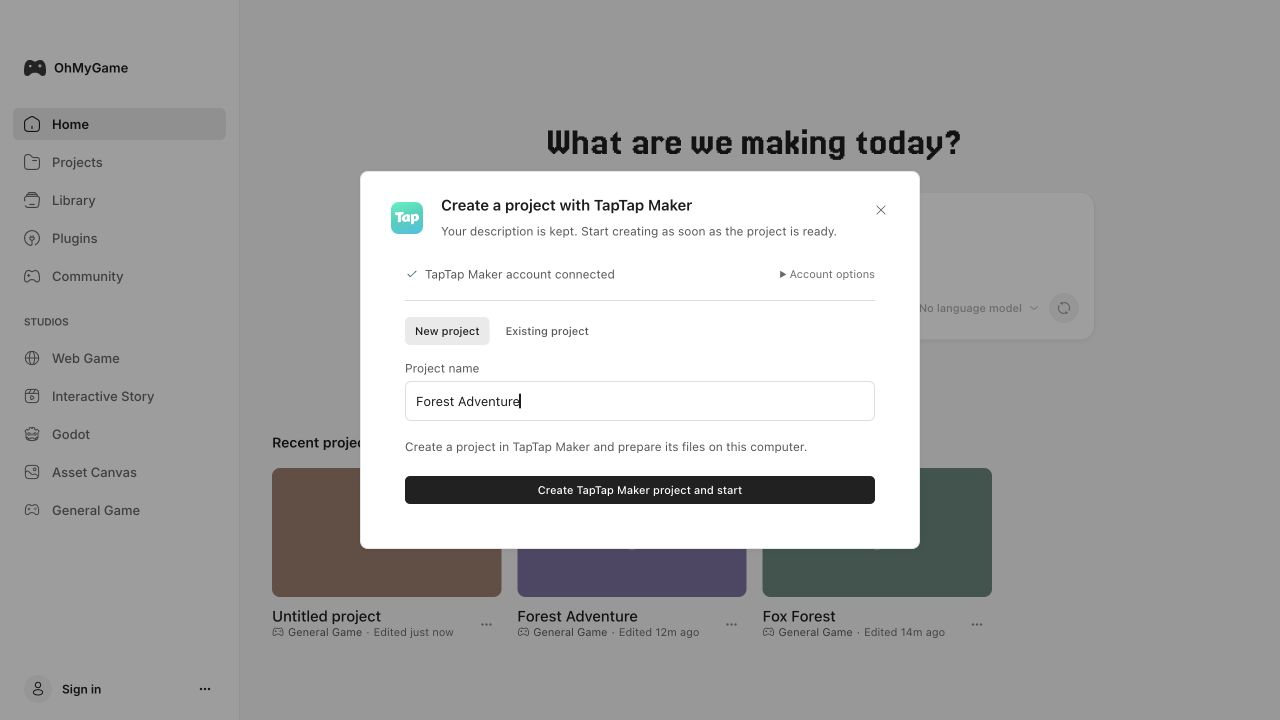
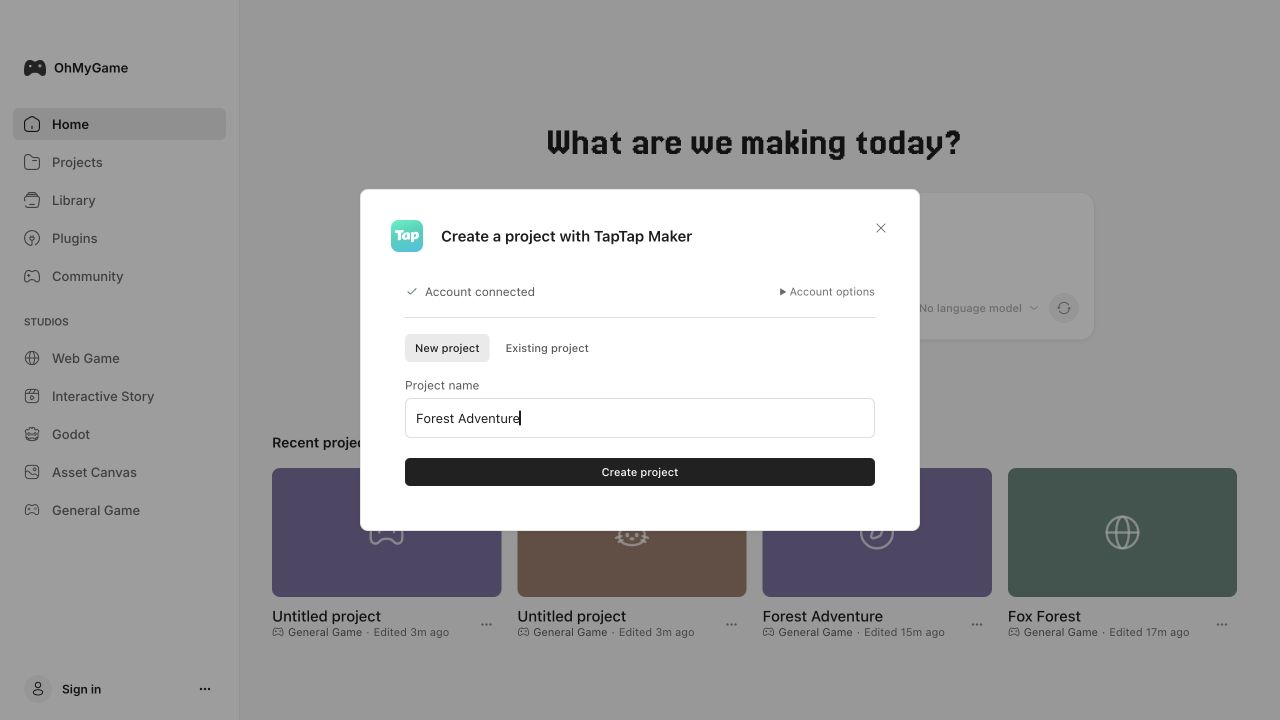
style(plugins): simplify project creation copy

diff --git a/src/renderer/plugin-integration.tsx b/src/renderer/plugin-integration.tsx
@@ -19,7 +19,7 @@ import { Check, LoaderCircle, RefreshCw, X } from "./icons.js";
 import { t } from "./i18n.js";
 import { PluginGlyph } from "./plugin-icons.js";
 
-type ProjectCreation = { name: string; canCreate: boolean; pluginName: string };
+type ProjectCreation = { name: string; canCreate: boolean };
 type CreationOptions = { canCreate: boolean; embedded?: boolean };
 
 function useIntegration(
@@ -280,11 +280,7 @@ function IntegrationContents({
             )}
             {busy && !(creation && projectOperation)
               ? (state?.message ?? t("integration.working"))
-              : creation
-                ? t("integration.connectedWith", {
-                    plugin: creation.pluginName,
-                  })
-                : t("integration.connected")}
+              : t("integration.connected")}
           </p>
         ) : null}
         {creation && ready ? (
@@ -342,11 +338,6 @@ function IntegrationContents({
                   onChange={(event) => setName(event.target.value)}
                 />
               </label>
-              <p>
-                {t("integration.newProjectHint", {
-                  plugin: creation.pluginName,
-                })}
-              </p>
               <button
                 className="plugin-detail-primary"
                 type="button"
@@ -360,15 +351,12 @@ function IntegrationContents({
                   );
                 }}
               >
-                {t(
-                  busy ? "integration.working" : "integration.createAndConnect",
-                  { plugin: creation.pluginName },
-                )}
+                {t(busy ? "integration.working" : "integration.createAndConnect")}
               </button>
             </>
           ) : (
             <>
-              <p>{t("integration.chooseProject")}</p>
+              {!creation ? <p>{t("integration.chooseProject")}</p> : null}
               <button
                 className="plugin-detail-secondary"
                 type="button"
@@ -526,7 +514,7 @@ export function usePluginIntegrationGate(
       candidate={!dialog.project.integration}
       creation={
         dialog.creation
-          ? { ...dialog.creation, name: dialog.project.name, pluginName }
+          ? { ...dialog.creation, name: dialog.project.name }
           : undefined
       }
       onReady={() => close(true)}
@@ -541,10 +529,7 @@ export function usePluginIntegrationGate(
               <PluginGlyph plugin={dialog.plugin} size={32} />
             </span>
           ) : null}
-          <div>
-            <h2>{t("integration.createTitle", { plugin: pluginName })}</h2>
-            <p>{t("integration.creationHint")}</p>
-          </div>
+          <h2>{t("integration.createTitle", { plugin: pluginName })}</h2>
         </div>
         <button
           className="plugin-detail-secondary plugin-integration-refresh"

diff --git a/test/plugin-integration-ui.test.tsx b/test/plugin-integration-ui.test.tsx
@@ -163,10 +163,10 @@ describe("plugin connection UI", () => {
     );
     expect(container.querySelector("select")).toBeNull();
     expect(container.querySelector("details")?.open).toBe(false);
-    expect(container.textContent).toContain("TapTap Maker account connected");
+    expect(container.textContent).toContain("Account connected");
     expect(opened).not.toHaveBeenCalled();
     await fillName("Pixel garden");
-    await click("Create TapTap Maker project and start");
+    await click("Create project");
     expect(actions).toEqual([{ action: "create" }]);
     expect(opened).toHaveBeenCalledWith(
       expect.objectContaining({ name: "Pixel garden" }),
@@ -256,7 +256,7 @@ describe("plugin connection UI", () => {
         .querySelector<HTMLButtonElement>('button[type="submit"]')!
         .click(),
     );
-    await click("Create TapTap Maker project and start");
+    await click("Create project");
     expect(opened).toHaveBeenCalledOnce();
     expect(opened.mock.calls[0]?.[2]).toContain("Make a forest adventure");
   });
@@ -317,7 +317,7 @@ describe("plugin connection UI", () => {
     expect(container.querySelectorAll('[role="dialog"]')).toHaveLength(1);
     expect(container.querySelectorAll('[role="dialog"] h2')).toHaveLength(1);
     expect(opened).not.toHaveBeenCalled();
-    await click("Create TapTap Maker project and start");
+    await click("Create project");
     expect(opened).toHaveBeenCalledOnce();
     expect(create).toHaveBeenCalledOnce();
     expect(projectRequests.some((request) => request.method === "PATCH")).toBe(
@@ -403,14 +403,14 @@ describe("plugin connection UI", () => {
     await act(async () => root.render(<Creator />));
     await click("Create game");
     await fillName("Fox forest");
-    await click("Create TapTap Maker project and start");
+    await click("Create project");
     expect(container.querySelector("input")?.value).toBe("Fox forest");
     expect(container.querySelector('[role="alert"]')?.textContent).toContain(
       "resume",
     );
     expect(opened).not.toHaveBeenCalled();
     fail = false;
-    await click("Create TapTap Maker project and start");
+    await click("Create project");
     expect(opened).toHaveBeenCalledOnce();
     expect(
       projectRequests.every((request) =>
@@ -497,7 +497,7 @@ describe("plugin connection UI", () => {
     await act(async () => root.render(<Creator />));
     await click("Create game");
     await fillName("Pixel garden");
-    await click("Create TapTap Maker project and start");
+    await click("Create project");
     expect(saveName).toBeDefined();
     expect(
       container.querySelector<HTMLButtonElement>(

diff --git a/src/renderer/styles.css b/src/renderer/styles.css
@@ -16691,14 +16691,13 @@ button {
 .plugin-project-choices .plugin-detail-secondary[aria-pressed="true"] { background: var(--control-selected); color: var(--text); }
 .plugin-project-creation { display: grid; width: min(560px, 100%); gap: 20px; margin: 0 auto; padding: 24px; border: 1px solid var(--border); border-radius: var(--radius-panel); background: var(--surface-raised); text-align: left; }
 .plugin-project-creation > header { display: flex; align-items: start; justify-content: space-between; gap: 12px; }
-.plugin-project-creation > header h2 { margin: 0 0 8px; color: var(--text); font-size: 15px; font-weight: 600; }
-.plugin-project-creation > header p { margin: 0; color: var(--text-secondary); font-size: 12px; line-height: 1.6; }
+.plugin-project-creation > header h2 { margin: 0; color: var(--text); font-size: 15px; font-weight: 600; }
 .plugin-project-creation .plugin-integration-panel { margin: 0; }
 .plugin-project-dialog { width: min(560px, 100%); }
 .plugin-project-dialog .plugin-project-creation { width: 100%; margin: 0; border: 0; }
 .plugin-project-dialog .plugin-integration-panel { padding: 0; }
-.plugin-project-identity { display: flex; min-width: 0; align-items: start; gap: 12px; }
-.plugin-project-identity > div { min-width: 0; }
+.plugin-project-identity { display: flex; min-width: 0; align-items: center; gap: 12px; }
+.plugin-project-identity > h2 { min-width: 0; }
 .plugin-project-icon { display: flex; flex: 0 0 44px; width: 44px; height: 44px; align-items: center; justify-content: center; border-radius: 10px; background: var(--surface); }
 .plugin-project-creation .plugin-integration-connection { gap: 8px; }
 .plugin-project-creation .plugin-integration-binding { gap: 16px; }

diff --git a/src/renderer/locales/en.ts b/src/renderer/locales/en.ts
@@ -2820,12 +2820,11 @@ const en = {
     detailsFor: "Node details: {{label}}",
   },
   integration: {
-    createTitle: "Create a project with {{plugin}}", creationHint: "Your description is kept. Start creating as soon as the project is ready.",
-    connectingProject: "Connecting and preparing your project…",
-    projectName: "Project name", accountOptions: "Account options", connectedWith: "{{plugin}} account connected", connectAndStart: "Connect and start", preparingProject: "Creating and preparing your project…",
+    createTitle: "Create a project with {{plugin}}",
+    connectingProject: "Connecting project…",
+    projectName: "Project name", accountOptions: "Account options", connectAndStart: "Connect and start", preparingProject: "Creating project…",
     plugin: "Project plugin", noPlugin: "None", projectSource: "Project source",
-    newProject: "New project", existingProject: "Existing project", createAndConnect: "Create {{plugin}} project and start",
-    newProjectHint: "Create a project in {{plugin}} and prepare its files on this computer.",
+    newProject: "New project", existingProject: "Existing project", createAndConnect: "Create project",
     promptNotSent: "Your initial message has not been sent.", title: "Plugin connection", description: "Prepare the local environment and connect your account before development.",
     candidate: "Continuing switches this project to the plugin's native preview and publishing workflow; Web preview and Community publishing turn off. You can disconnect it later from the Preview tab.",
     disconnect: "Disconnect plugin", disconnectConfirm: "Disconnect",

diff --git a/src/renderer/locales/zh-CN.ts b/src/renderer/locales/zh-CN.ts
@@ -2739,12 +2739,11 @@ const zhCN: typeof en = {
     detailsFor: "节点详情：{{label}}",
   },
   integration: {
-    createTitle: "使用 {{plugin}} 创建项目", creationHint: "你的游戏描述会保留，项目准备好后即可开始创作。",
-    connectingProject: "正在连接并准备项目…",
-    projectName: "项目名称", accountOptions: "账号选项", connectedWith: "{{plugin}} 账号已连接", connectAndStart: "连接并开始", preparingProject: "正在创建并准备项目…",
+    createTitle: "使用 {{plugin}} 创建项目",
+    connectingProject: "正在连接项目…",
+    projectName: "项目名称", accountOptions: "账号选项", connectAndStart: "连接并开始", preparingProject: "正在创建项目…",
     plugin: "项目插件", noPlugin: "无", projectSource: "项目来源",
-    newProject: "新建项目", existingProject: "已有项目", createAndConnect: "创建 {{plugin}} 项目并开始",
-    newProjectHint: "在 {{plugin}} 创建项目，并在这台电脑上准备项目文件。",
+    newProject: "新建项目", existingProject: "已有项目", createAndConnect: "创建项目",
     promptNotSent: "初始需求尚未发送。", title: "插件接入", description: "开发前，先准备本地环境并连接账号。",
     candidate: "继续后，此项目将改用插件的原生预览和发布流程，并关闭 Web 预览和社区发布。之后可在“预览”标签页中断开。",
     disconnect: "断开插件", disconnectConfirm: "断开",

diff --git a/docs/plugins.md b/docs/plugins.md
@@ -281,10 +281,10 @@ plugin packages. Credentials remain in Maker's own store.
 ![Maker project creation](assets/maker-project-creation.png)
 
 Reference Maker when creating a project to select General automatically, or select
-it under Project plugin in the new-project window. Project creation includes an
+it under Project plugin in the new-project window. Project creation includes a
 branded creation dialog before opening a conversation, keeping the original
 description visible behind it. It defaults to **New project**: enter a name and
-choose **Create TapTap Maker project and start** to create the Maker project and
+choose **Create project** to create the Maker project and
 prepare its empty local directory. A ready account is summarized in one line,
 with reconnect and refresh under **Account options**. Missing environment or
 authorization steps expand only when needed. The explicit new-project window
